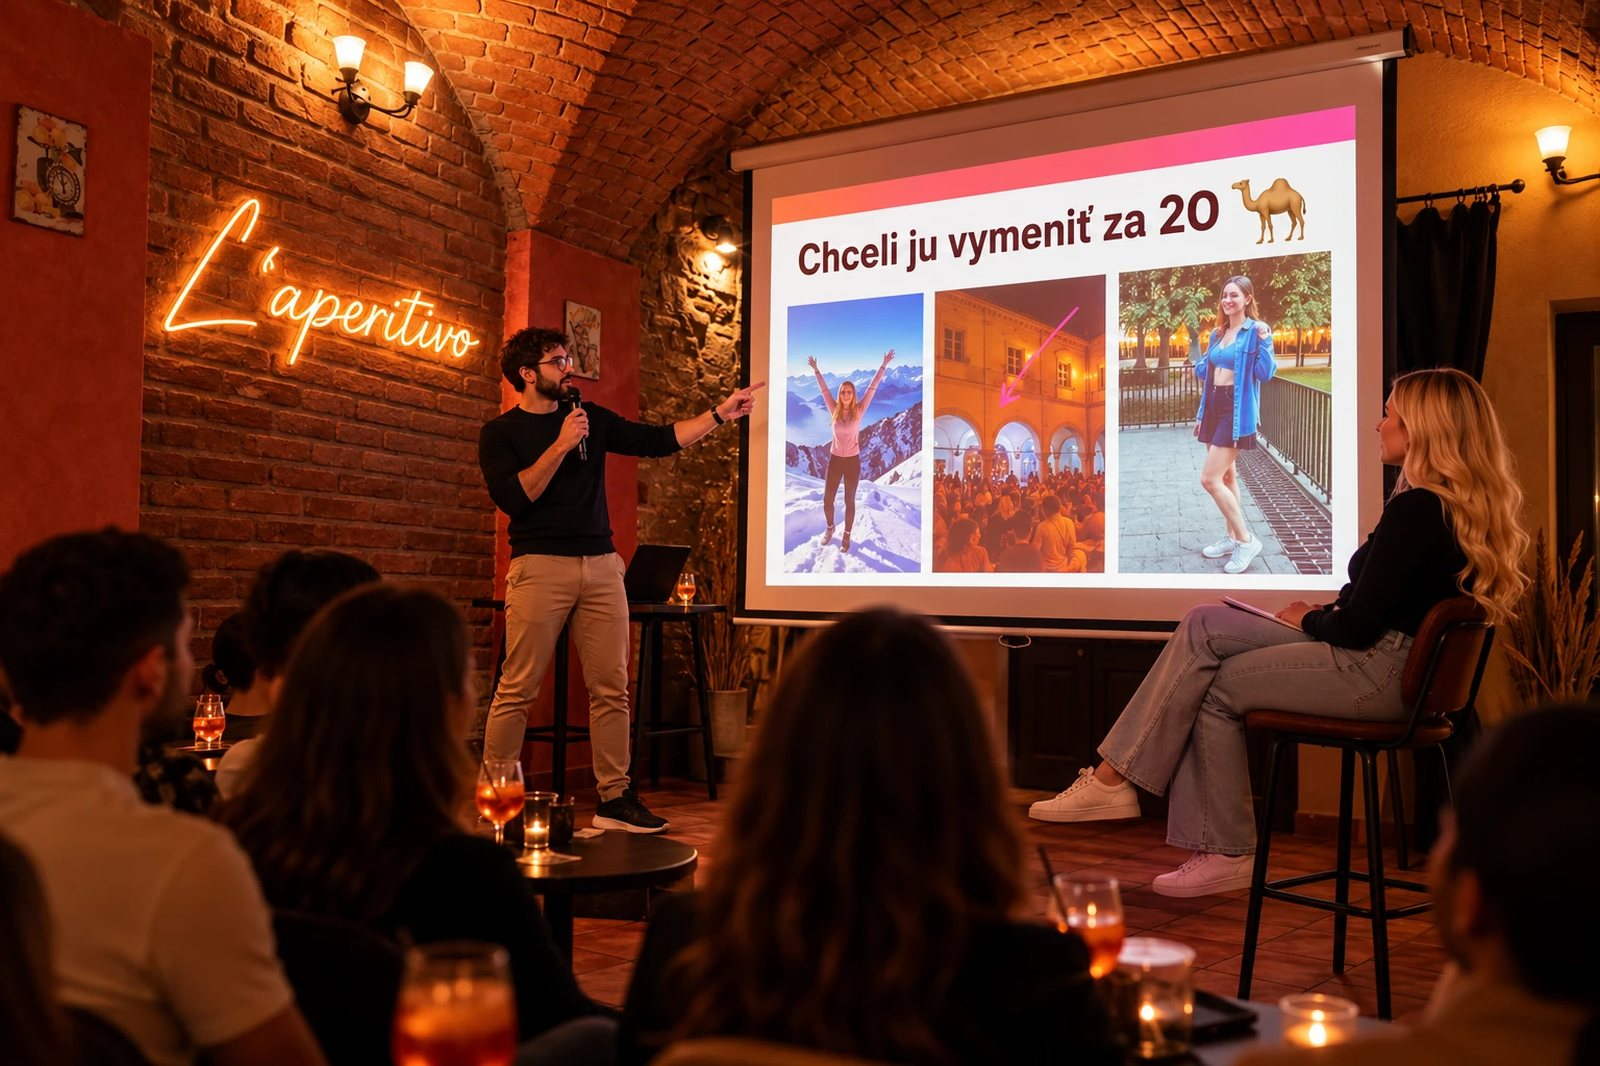
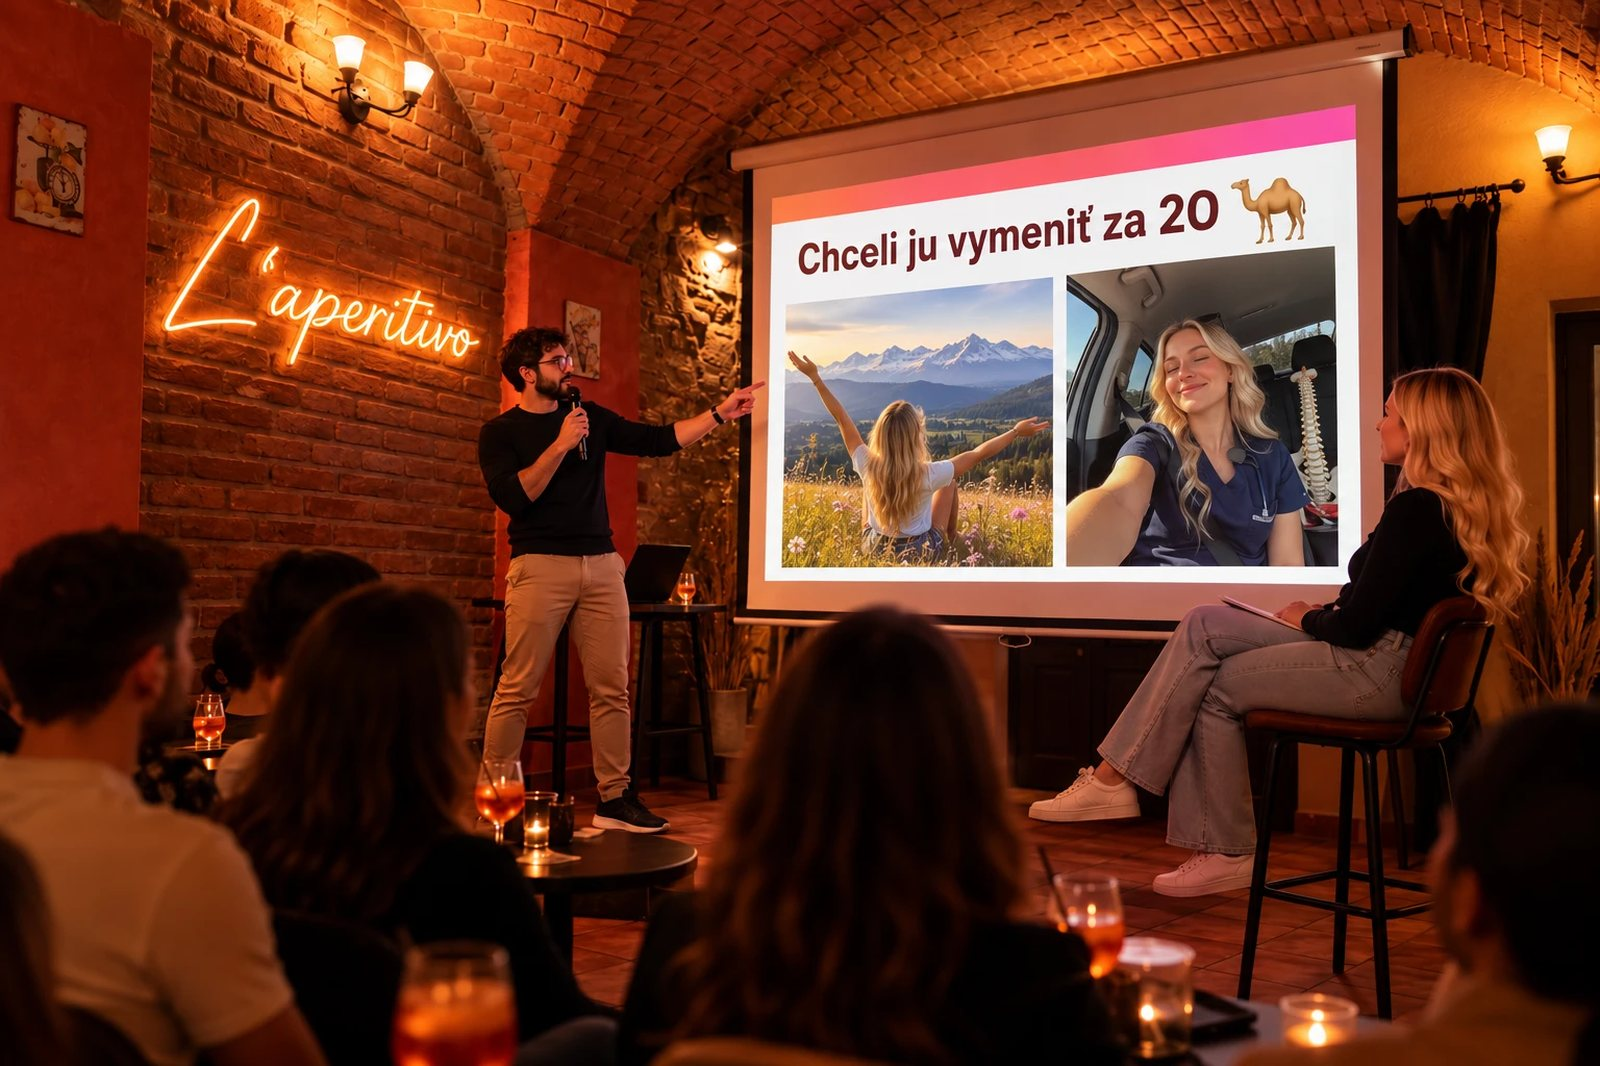
Domov hero: nová fotka, bez lístka, menšia druhá veta nadpisu

diff --git a/index.html b/index.html
@@ -9,7 +9,7 @@
   <link rel="preload" href="fonts/texgyreadventor-bold.otf" as="font" type="font/otf" crossorigin>
   <link rel="icon" type="image/png" href="favicon.png?v=3">
   <link rel="apple-touch-icon" href="img/apple-touch-icon.png?v=3">
-  <link rel="stylesheet" href="styles.css?v=204">
+  <link rel="stylesheet" href="styles.css?v=205">
 </head>
 <body>
 
@@ -60,22 +60,7 @@
           <h1 class="hero-title hero-title-long">Nebavia ťa zoznamovacie aplikácie a&nbsp;klasický Speed Dating ti príde trápny či nudný? <span class="hero-title-end">Tak si na správnom mieste!</span></h1>
         </div>
         <div class="hero-photo hero-photo-wide">
-          <img class="hero-img" src="img/hero-podium-aperitivo.jpg" alt="Kamoš na pódiu v L’Aperitivo predstavuje svoju single kamarátku, za nimi plátno s jej fotkami" width="1600" height="1067">
-          <div class="ticket-sticker ticket-new" aria-hidden="true">
-            <div class="ticket-rot">
-              <svg class="ticket-svg" viewBox="-34 -44 340 200" aria-hidden="true">
-                <g fill="none" stroke="var(--lavender)" stroke-width="7" stroke-linecap="round">
-                  <path d="M-24 -6 L-2 2"/><path d="M-6 -34 L8 -12"/><path d="M22 -40 L20 -16"/>
-                </g>
-                <path d="M0 0 H214 A6 6 0 0 0 226 0 H290 V6 A5 5 0 0 0 290 16 V21 A5 5 0 0 0 290 31 V36 A5 5 0 0 0 290 46 V51 A5 5 0 0 0 290 61 V66 A5 5 0 0 0 290 76 V81 A5 5 0 0 0 290 91 V96 A5 5 0 0 0 290 106 V111 A5 5 0 0 0 290 121 V140 H226 A6 6 0 0 0 214 140 H0 V112 A7 7 0 0 0 0 98 V30 A7 7 0 0 0 0 16 Z" transform="translate(-7 8)" fill="var(--bordeaux)"/>
-                <path d="M0 0 H214 A6 6 0 0 0 226 0 H290 V6 A5 5 0 0 0 290 16 V21 A5 5 0 0 0 290 31 V36 A5 5 0 0 0 290 46 V51 A5 5 0 0 0 290 61 V66 A5 5 0 0 0 290 76 V81 A5 5 0 0 0 290 91 V96 A5 5 0 0 0 290 106 V111 A5 5 0 0 0 290 121 V140 H226 A6 6 0 0 0 214 140 H0 V112 A7 7 0 0 0 0 98 V30 A7 7 0 0 0 0 16 Z" fill="#fffaf2"/>
-                <line x1="220" y1="12" x2="220" y2="128" stroke="var(--bordeaux)" stroke-width="1.6" stroke-dasharray="4 4"/>
-                <clipPath id="stub-clip"><rect x="220" y="-10" width="80" height="160"/></clipPath><path d="M0 0 H214 A6 6 0 0 0 226 0 H290 V6 A5 5 0 0 0 290 16 V21 A5 5 0 0 0 290 31 V36 A5 5 0 0 0 290 46 V51 A5 5 0 0 0 290 61 V66 A5 5 0 0 0 290 76 V81 A5 5 0 0 0 290 91 V96 A5 5 0 0 0 290 106 V111 A5 5 0 0 0 290 121 V140 H226 A6 6 0 0 0 214 140 H0 V112 A7 7 0 0 0 0 98 V30 A7 7 0 0 0 0 16 Z" fill="none" stroke="var(--bordeaux)" stroke-width="2.2" clip-path="url(#stub-clip)"/>
-                <g fill="var(--bordeaux)"><rect x="243" y="20.0" width="26" height="1.6"/><rect x="243" y="22.6" width="26" height="2.4"/><rect x="243" y="27.0" width="26" height="1"/><rect x="243" y="29.0" width="26" height="1"/><rect x="243" y="31.4" width="26" height="1"/><rect x="243" y="34.4" width="26" height="1"/><rect x="243" y="36.4" width="26" height="1"/><rect x="243" y="38.8" width="26" height="2.4"/><rect x="243" y="42.2" width="26" height="1"/><rect x="243" y="44.2" width="26" height="2.4"/><rect x="243" y="47.6" width="26" height="1"/><rect x="243" y="49.6" width="26" height="1"/><rect x="243" y="52.6" width="26" height="2.4"/><rect x="243" y="56.0" width="26" height="1"/><rect x="243" y="58.0" width="26" height="1"/><rect x="243" y="60.4" width="26" height="2.4"/><rect x="243" y="63.8" width="26" height="1"/><rect x="243" y="66.8" width="26" height="1.6"/><rect x="243" y="70.4" width="26" height="1"/><rect x="243" y="72.4" width="26" height="1"/><rect x="243" y="74.8" width="26" height="1"/><rect x="243" y="77.8" width="26" height="1"/><rect x="243" y="80.8" width="26" height="1"/><rect x="243" y="83.8" width="26" height="1"/><rect x="243" y="86.2" width="26" height="2.4"/><rect x="243" y="90.0" width="26" height="2.4"/><rect x="243" y="94.4" width="26" height="2.4"/><rect x="243" y="98.2" width="26" height="1.6"/><rect x="243" y="100.8" width="26" height="1"/><rect x="243" y="103.8" width="26" height="1"/><rect x="243" y="105.8" width="26" height="1.6"/><rect x="243" y="109.4" width="26" height="2.4"/><rect x="243" y="113.2" width="26" height="2.4"/><rect x="243" y="117.0" width="26" height="1"/><rect x="243" y="119.0" width="26" height="2.4"/></g>
-              </svg>
-              <p class="ticket-text"><span class="nowrap">Ty + odvaha</span><br><span class="nowrap">= nová kapitola</span></p>
-            </div>
-          </div>
+          <img class="hero-img" src="img/hero-podium-aperitivo.jpg?v=2" alt="Kamoš na pódiu v L’Aperitivo predstavuje svoju single kamarátku, za nimi plátno s jej fotkami" width="1600" height="1067">
           <svg class="sparkle s1" aria-hidden="true"><use href="#sparkle"/></svg><svg class="sparkle s2" aria-hidden="true"><use href="#sparkle"/></svg>
         </div>
         <div class="hero-center-foot">

diff --git a/styles.css b/styles.css
@@ -1495,3 +1495,4 @@ h1.dict-term { font-size: clamp(2.5rem, 6.5vw, 5rem); margin-bottom: 0; }
 .hero-center .lead { margin-left: auto; margin-right: auto; }
 .hero-center .actions { justify-content: center; }
 @media (max-width: 700px) { .hero-center .hero-photo.hero-photo-wide { margin-left: 0; } .hero-center .ticket-new { left: -10px; width: min(240px, 70%); } .hero-center .hero-photo-wide .hero-img { aspect-ratio: 4 / 3; } }
+.hero-title-end { font-size: .62em; margin-top: .45em; }

diff --git a/listok.html b/listok.html
@@ -10,7 +10,7 @@
   <link rel="preload" href="fonts/texgyreadventor-bold.otf" as="font" type="font/otf" crossorigin>
   <link rel="icon" type="image/png" href="favicon.png?v=3">
   <link rel="apple-touch-icon" href="img/apple-touch-icon.png?v=3">
-  <link rel="stylesheet" href="styles.css?v=204">
+  <link rel="stylesheet" href="styles.css?v=205">
 </head>
 <body>
 

diff --git a/po-znamosti.html b/po-znamosti.html
@@ -10,7 +10,7 @@
   <link rel="preload" href="fonts/texgyreadventor-bold.otf" as="font" type="font/otf" crossorigin>
   <link rel="icon" type="image/png" href="favicon.png?v=3">
   <link rel="apple-touch-icon" href="img/apple-touch-icon.png?v=3">
-  <link rel="stylesheet" href="styles.css?v=204">
+  <link rel="stylesheet" href="styles.css?v=205">
 </head>
 <body>
 

diff --git a/prihlaska-na-podium.html b/prihlaska-na-podium.html
@@ -10,7 +10,7 @@
   <link rel="preload" href="fonts/texgyreadventor-bold.otf" as="font" type="font/otf" crossorigin>
   <link rel="icon" type="image/png" href="favicon.png?v=3">
   <link rel="apple-touch-icon" href="img/apple-touch-icon.png?v=3">
-  <link rel="stylesheet" href="styles.css?v=204">
+  <link rel="stylesheet" href="styles.css?v=205">
 </head>
 <body>
 

diff --git a/chystame.html b/chystame.html
@@ -9,7 +9,7 @@
   <link rel="preload" href="fonts/texgyreadventor-bold.otf" as="font" type="font/otf" crossorigin>
   <link rel="icon" type="image/png" href="favicon.png?v=3">
   <link rel="apple-touch-icon" href="img/apple-touch-icon.png?v=3">
-  <link rel="stylesheet" href="styles.css?v=204">
+  <link rel="stylesheet" href="styles.css?v=205">
 </head>
 <body>
 

diff --git a/clanok-30-minut-a-dost.html b/clanok-30-minut-a-dost.html
@@ -9,7 +9,7 @@
   <link rel="preload" href="fonts/texgyreadventor-bold.otf" as="font" type="font/otf" crossorigin>
   <link rel="icon" type="image/png" href="favicon.png?v=3">
   <link rel="apple-touch-icon" href="img/apple-touch-icon.png?v=3">
-  <link rel="stylesheet" href="styles.css?v=204">
+  <link rel="stylesheet" href="styles.css?v=205">
 </head>
 <body>
 

diff --git a/clanok-aha-moment-pri-tretom-drinku.html b/clanok-aha-moment-pri-tretom-drinku.html
@@ -9,7 +9,7 @@
   <link rel="preload" href="fonts/texgyreadventor-bold.otf" as="font" type="font/otf" crossorigin>
   <link rel="icon" type="image/png" href="favicon.png?v=3">
   <link rel="apple-touch-icon" href="img/apple-touch-icon.png?v=3">
-  <link rel="stylesheet" href="styles.css?v=204">
+  <link rel="stylesheet" href="styles.css?v=205">
 </head>
 <body>
 

diff --git a/clanok-ahoj-ako-je-mrtve.html b/clanok-ahoj-ako-je-mrtve.html
@@ -9,7 +9,7 @@
   <link rel="preload" href="fonts/texgyreadventor-bold.otf" as="font" type="font/otf" crossorigin>
   <link rel="icon" type="image/png" href="favicon.png?v=3">
   <link rel="apple-touch-icon" href="img/apple-touch-icon.png?v=3">
-  <link rel="stylesheet" href="styles.css?v=204">
+  <link rel="stylesheet" href="styles.css?v=205">
 </head>
 <body>
 

diff --git a/clanok-co-je-rande.html b/clanok-co-je-rande.html
@@ -9,7 +9,7 @@
   <link rel="preload" href="fonts/texgyreadventor-bold.otf" as="font" type="font/otf" crossorigin>
   <link rel="icon" type="image/png" href="favicon.png?v=3">
   <link rel="apple-touch-icon" href="img/apple-touch-icon.png?v=3">
-  <link rel="stylesheet" href="styles.css?v=204">
+  <link rel="stylesheet" href="styles.css?v=205">
 </head>
 <body>
 

diff --git a/clanok-kto-co-je-single.html b/clanok-kto-co-je-single.html
@@ -9,7 +9,7 @@
   <link rel="preload" href="fonts/texgyreadventor-bold.otf" as="font" type="font/otf" crossorigin>
   <link rel="icon" type="image/png" href="favicon.png?v=3">
   <link rel="apple-touch-icon" href="img/apple-touch-icon.png?v=3">
-  <link rel="stylesheet" href="styles.css?v=204">
+  <link rel="stylesheet" href="styles.css?v=205">
 </head>
 <body>
 

diff --git a/clanok-myty-single-po-tridsiatke.html b/clanok-myty-single-po-tridsiatke.html
@@ -9,7 +9,7 @@
   <link rel="preload" href="fonts/texgyreadventor-bold.otf" as="font" type="font/otf" crossorigin>
   <link rel="icon" type="image/png" href="favicon.png?v=3">
   <link rel="apple-touch-icon" href="img/apple-touch-icon.png?v=3">
-  <link rel="stylesheet" href="styles.css?v=204">
+  <link rel="stylesheet" href="styles.css?v=205">
 </head>
 <body>
 
